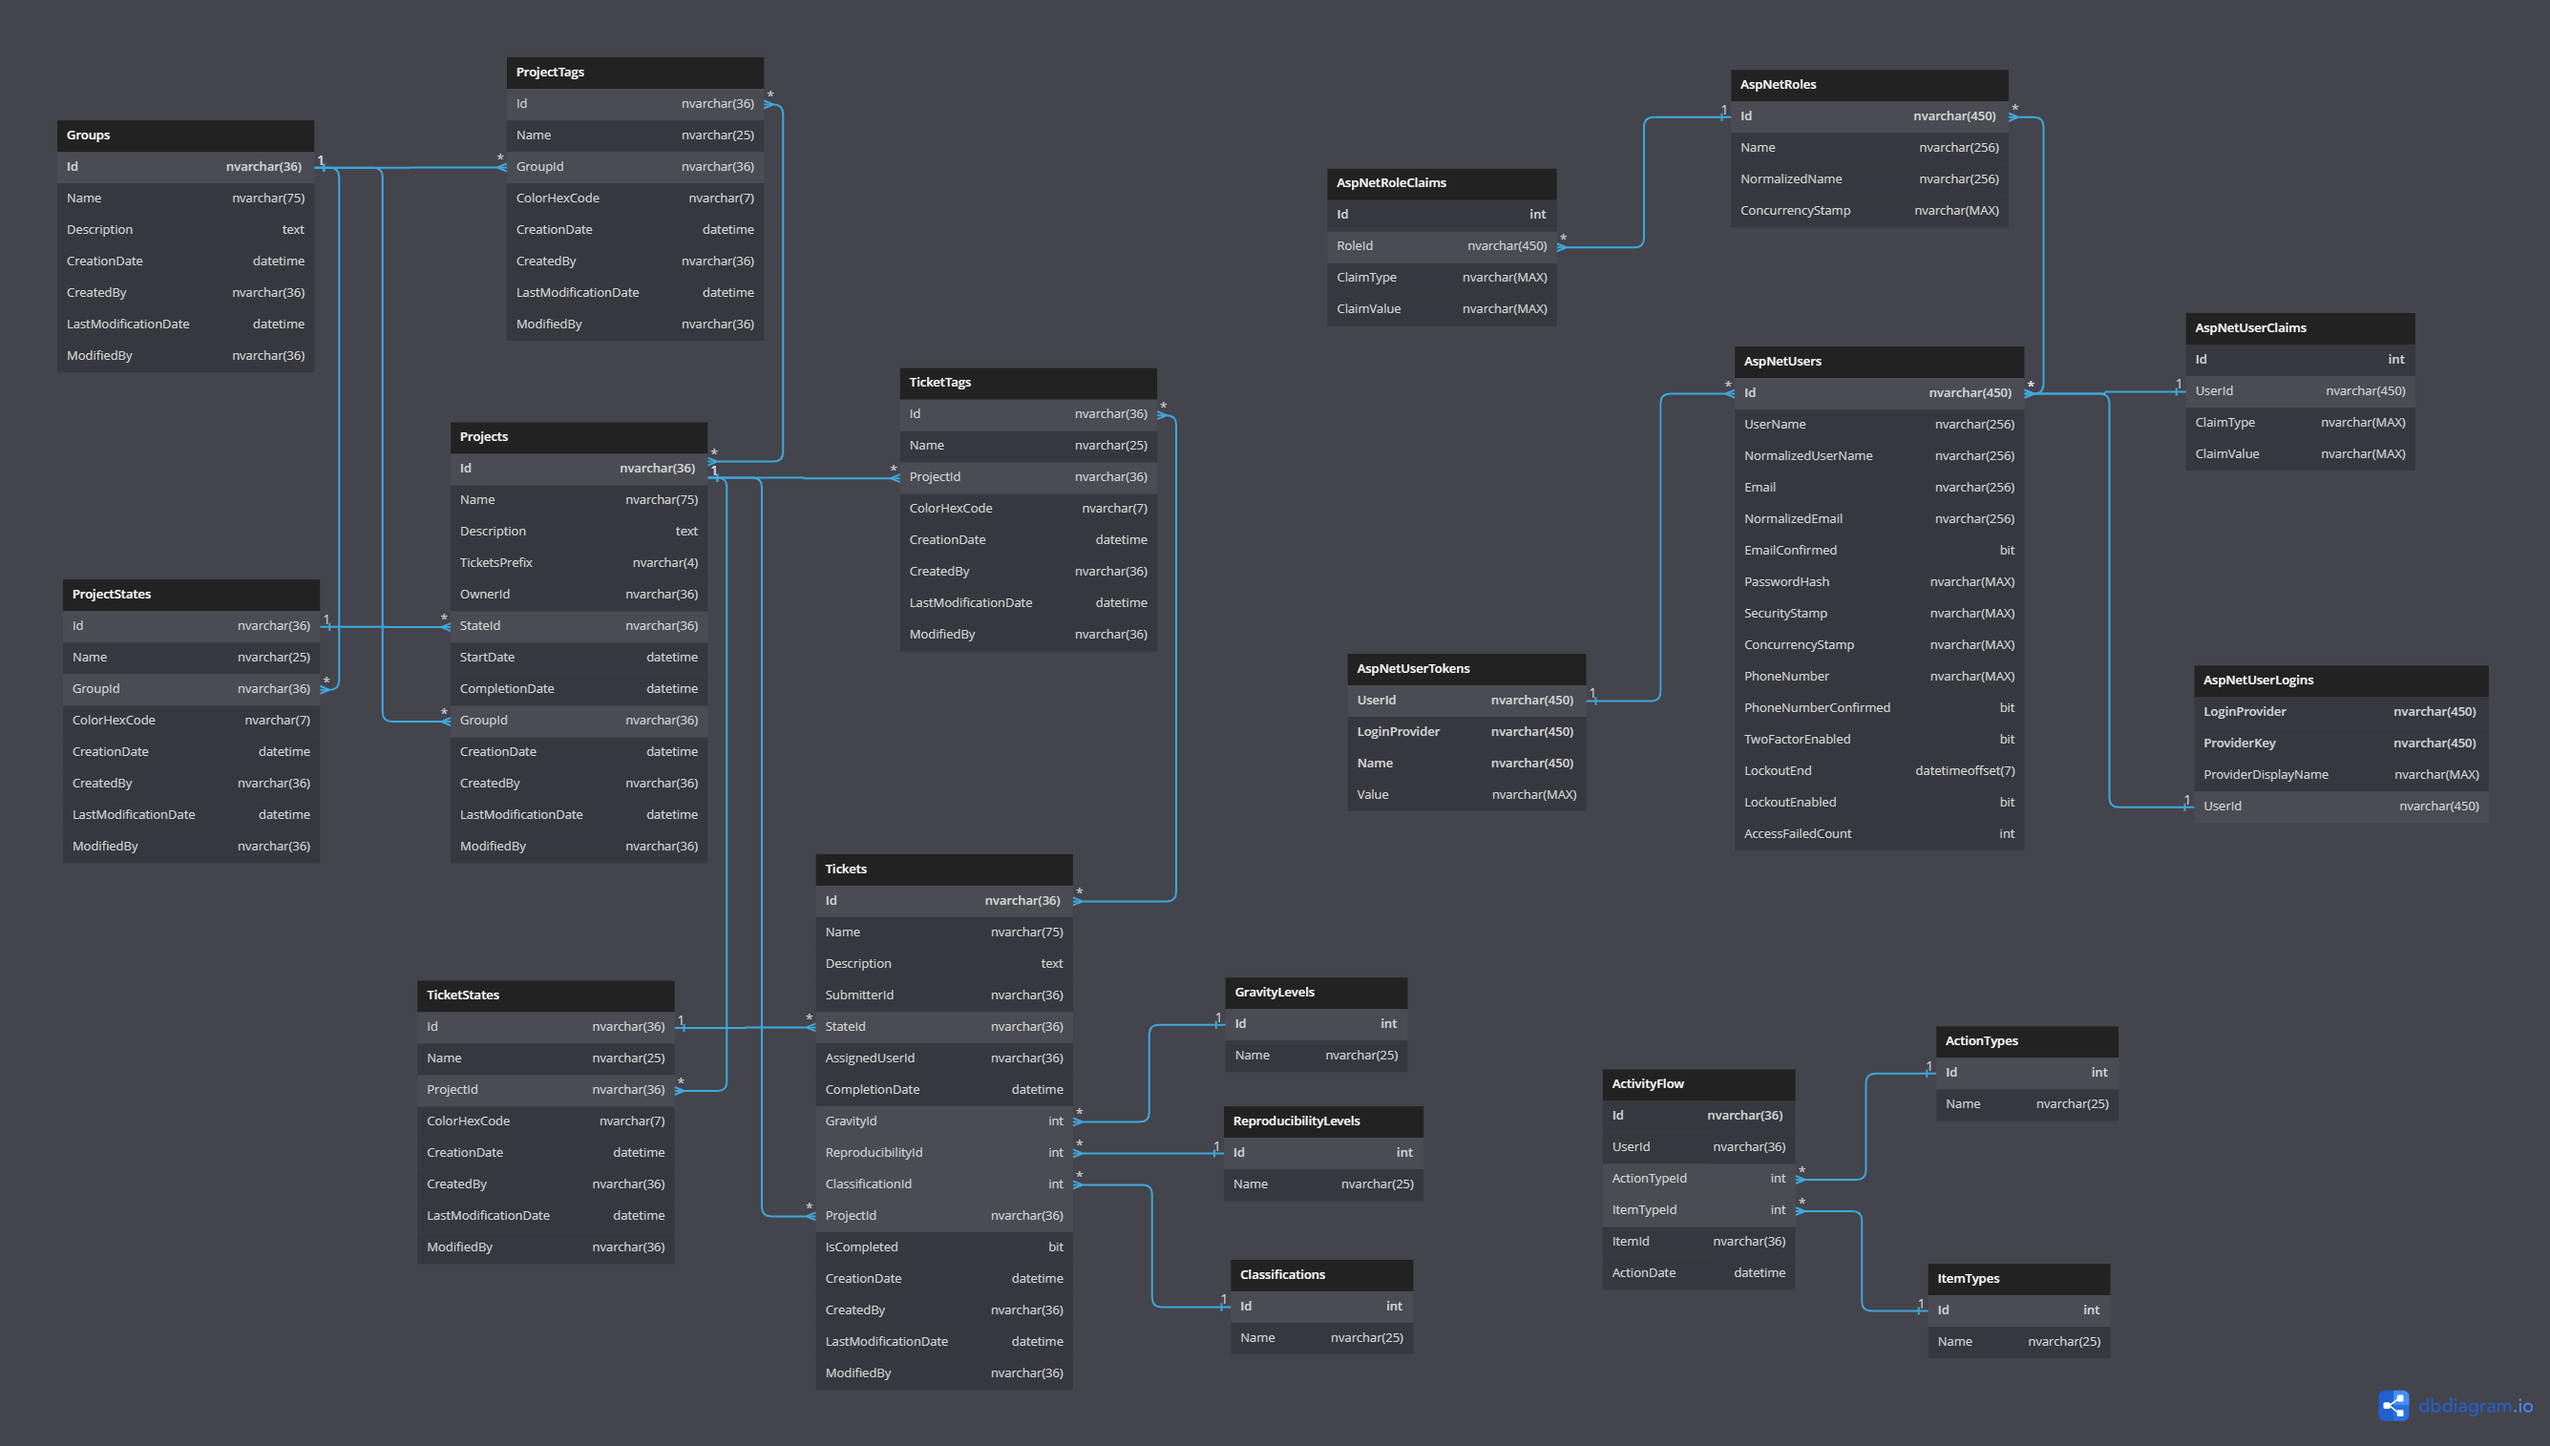
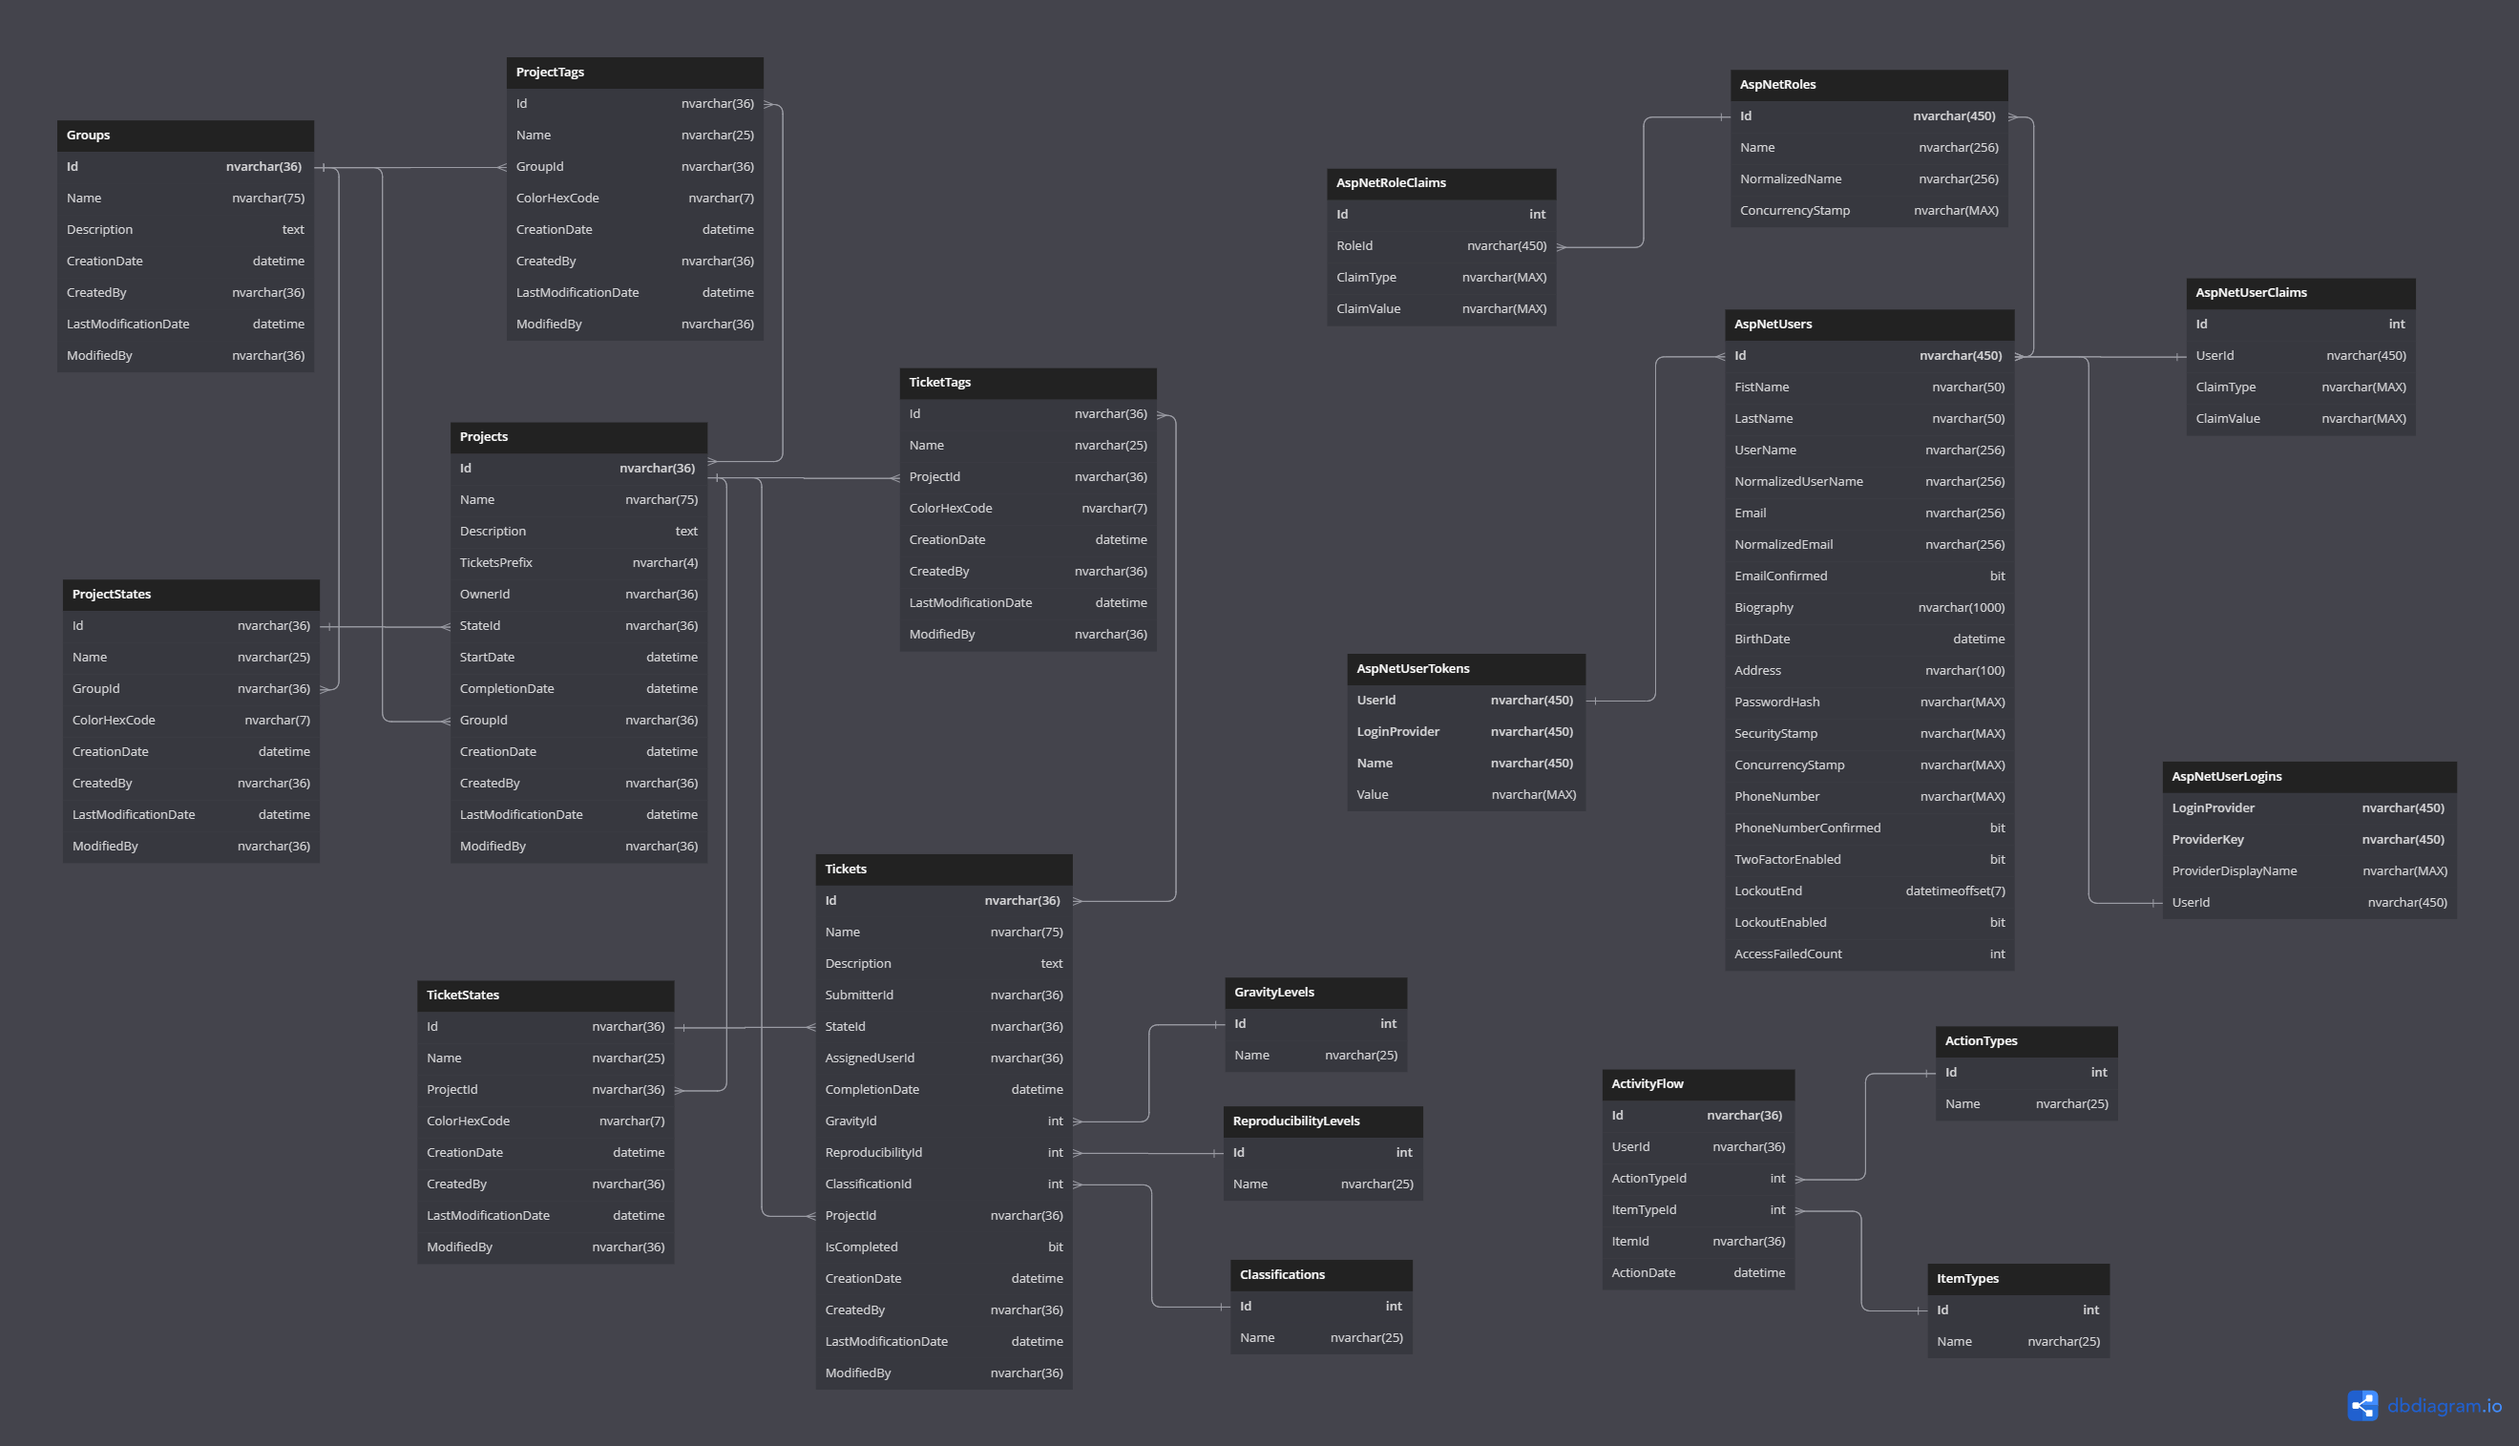
Agrega nuevos campos a la tabla usuarios de Identity
Realiza las modificaciones en la base de datos y en el contexto.
Agrega los campos a la entidad User.

diff --git a/src/Infrastructure/Persistence/BugTrackerContext.cs b/src/Infrastructure/Persistence/BugTrackerContext.cs
@@ -1,10 +1,11 @@
 using Domain.Entities;
+using Infrastructure.Persistence.Identity;
 using Microsoft.AspNetCore.Identity.EntityFrameworkCore;
 using Microsoft.EntityFrameworkCore;
 
 namespace Infrastructure.Persistence
 {
-    public partial class BugTrackerContext : IdentityDbContext
+    public partial class BugTrackerContext : IdentityDbContext<ApplicationUser, ApplicationRole, string>
     {
         public BugTrackerContext()
         {
@@ -324,6 +325,25 @@ namespace Infrastructure.Persistence
                     .WithMany(p => p.TicketTags)
                     .HasForeignKey(d => d.ProjectId)
                     .HasConstraintName("FK_Projects_TicketTags");
+            });
+
+            //**********************************************************************************************
+            // IDENTITY
+            //**********************************************************************************************
+
+            modelBuilder.Entity<ApplicationUser>(entity =>
+            {
+                entity.Property(e => e.FirstName).HasMaxLength(50);
+
+                entity.Property(e => e.LastName).HasMaxLength(50);
+
+                entity.Property(e => e.Biography).HasMaxLength(1000);
+
+                entity.Property(e => e.BirthDate).HasColumnType("datetime");
+
+                entity.Property(e => e.Address).HasMaxLength(100);
+
+                entity.Property(e => e.ProfileImageUrl).HasMaxLength(100);
             });
         }
     }

diff --git a/src/Infrastructure/Extensions/ServicesConfiguration.cs b/src/Infrastructure/Extensions/ServicesConfiguration.cs
@@ -3,6 +3,7 @@ using FluentValidation.AspNetCore;
 using Infrastructure.Filters;
 using Infrastructure.Options;
 using Infrastructure.Persistence;
+using Infrastructure.Persistence.Identity;
 using Microsoft.AspNetCore.Authentication.JwtBearer;
 using Microsoft.AspNetCore.Identity;
 using Microsoft.EntityFrameworkCore;
@@ -22,7 +23,7 @@ namespace Infrastructure.Extensions
             services.AddDbContext<BugTrackerContext>(options => options.UseSqlServer(connectionString));
 
             // Identity
-            services.AddIdentity<IdentityUser, IdentityRole>()
+            services.AddIdentity<ApplicationUser, ApplicationRole>()
                 .AddEntityFrameworkStores<BugTrackerContext>()
                 .AddDefaultTokenProviders();
 

diff --git a/src/Domain/Entities/User.cs b/src/Domain/Entities/User.cs
@@ -1,0 +1,29 @@
+using Domain.Common;
+
+namespace Domain.Entities
+{
+    public class User : BaseEntity
+    {
+        public string FirstName { get; set; } = null!;
+
+        public string LastName { get; set; } = null!;
+
+        public string UserName { get; set; } = null!;
+
+        public string? Biography { get; set; }
+
+        public DateTime? BirthDate { get; set; }
+
+        public string Email { get; set; } = null!;
+
+        public bool EmailConfirmed { get; set; }
+
+        public string PhoneNumber { get; set; } = null!;
+
+        public bool PhoneNumberConfirmed { get; set; }
+
+        public string? Address { get; set; }
+
+        public string? ProfileImageUrl { get; set; }
+    }
+}

diff --git a/src/Infrastructure/Persistence/Identity/ApplicationUser.cs b/src/Infrastructure/Persistence/Identity/ApplicationUser.cs
@@ -1,0 +1,19 @@
+using Microsoft.AspNetCore.Identity;
+
+namespace Infrastructure.Persistence.Identity
+{
+    public class ApplicationUser : IdentityUser
+    {
+        public string FirstName { get; set; } = null!;
+
+        public string LastName { get; set; } = null!;
+
+        public string? Biography { get; set; }
+
+        public DateTime? BirthDate { get; set; }
+
+        public string? Address { get; set; }
+
+        public string? ProfileImageUrl { get; set; }
+    }
+}

diff --git a/src/Infrastructure/Persistence/Identity/ApplicationRole.cs b/src/Infrastructure/Persistence/Identity/ApplicationRole.cs
@@ -1,0 +1,9 @@
+using Microsoft.AspNetCore.Identity;
+
+namespace Infrastructure.Persistence.Identity
+{
+    public class ApplicationRole : IdentityRole
+    {
+
+    }
+}
